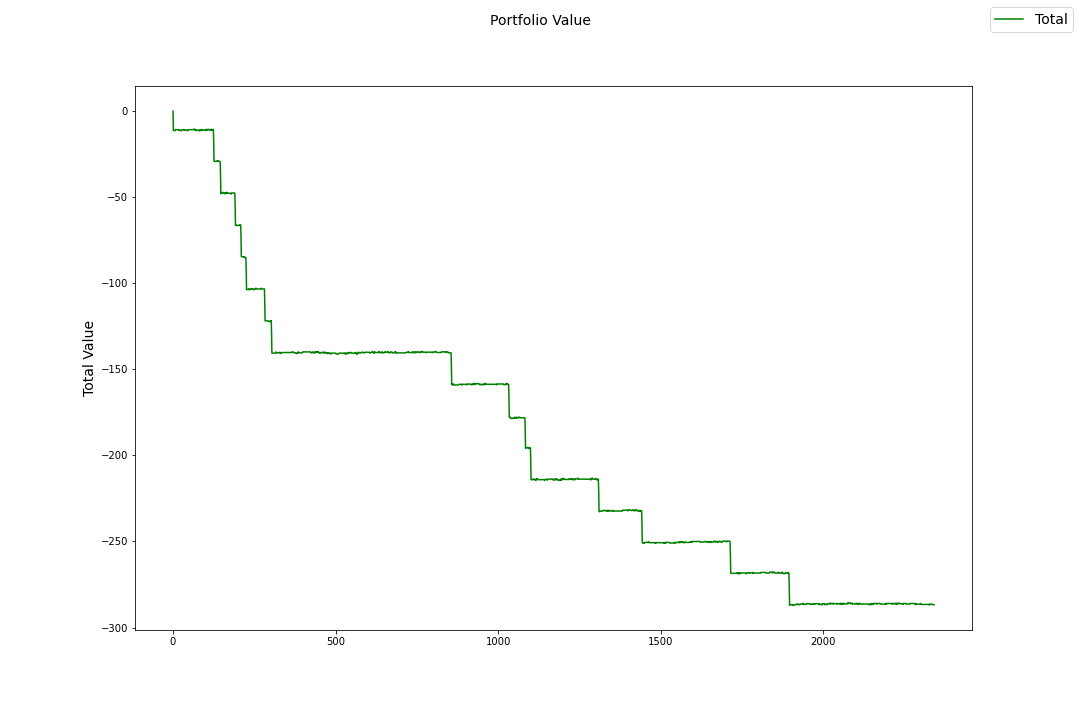
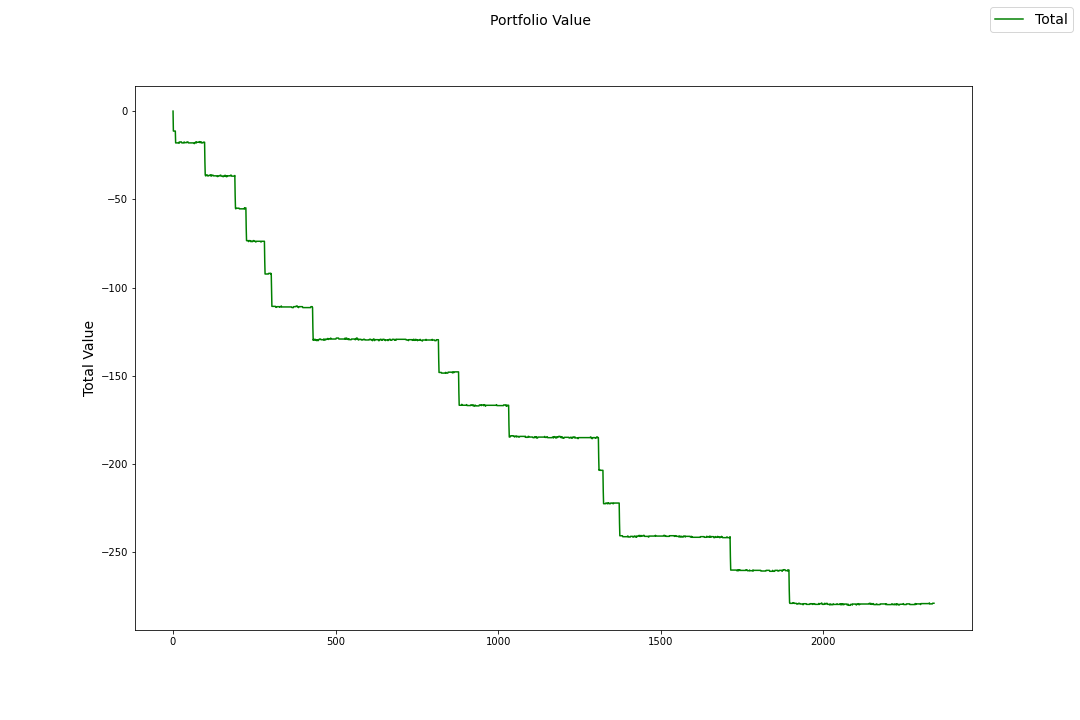
fixed some bugs in summarize_decisions. added flexibility in number_envs_to_analyze

diff --git a/environment.py b/environment.py
@@ -64,7 +64,7 @@ class Env(gym.Env):
         self.actions = list()
         self.actions_history = list()
 
-        # dict: keys are states, values are lists with actions take in that state
+        # dict: keys are states, values are lists of actions taken in that state
         self.num_trades = [dict()]
 
         # Need a history for plotting
@@ -75,17 +75,16 @@ class Env(gym.Env):
     def share_history(self):
         return self.last_share_history
 
-    @property
-    def collapse_num_trades_dict(self):
-        collapsed = self.num_trades[0]
-        for i in range(1,len(self.num_trades)):
+    def collapse_num_trades_dict(self, num_env_to_analyze = 1):
+        collapsed = self.num_trades[-num_env_to_analyze]
+        for i in range(len(self.num_trades) - num_env_to_analyze + 1, len(self.num_trades)):
             for k, v in self.num_trades[i].items():
                 current = collapsed.get(k, []) + v
                 collapsed[k] = current
         return collapsed
 
     def plot_state_frequency(self):
-        collapsed = self.collapse_num_trades_dict
+        collapsed = self.collapse_num_trades_dict(2)
         states = []
         freq = []
 
@@ -99,8 +98,8 @@ class Env(gym.Env):
         plt.setp(ax.get_xticklabels(), rotation=90, horizontalalignment='right', fontsize='x-small')
         plt.show()
 
-    def summarize_decisions(self):
-        collapsed = self.collapse_num_trades_dict
+    def summarize_decisions(self, num_env_to_analyze = 1):
+        collapsed = self.collapse_num_trades_dict(num_env_to_analyze)
         states = []
         freq = []
         d = {} ## keys are states, values are (unique, counts)
@@ -110,7 +109,6 @@ class Env(gym.Env):
             states.append(key)
             unique, counts = np.unique(collapsed[key], return_counts=True)
             d[key] = (unique, counts)
-
         freq_dict = {}
         for i in range(self.action_space.n+1):
 
@@ -128,8 +126,8 @@ class Env(gym.Env):
         plt.setp(ax.get_xticklabels(), rotation=90, horizontalalignment='right', fontsize='x-small')
         plt.show()
 
-    def summarize_state_decisions(self,state):
-        collapsed = self.collapse_num_trades_dict
+    def summarize_state_decisions(self,state,num_env_to_analyze = 1):
+        collapsed = self.collapse_num_trades_dict(num_env_to_analyze)
         unique, counts = np.unique(collapsed[state], return_counts=True)
         plt.bar(['Action ' + str(i) for i in unique],counts)
         plt.show()
@@ -199,8 +197,7 @@ class Env(gym.Env):
 
     def trade(self, action):
 
-        if action == 0:
-            if self.shares[0] < 0:
+        if action == 0 and self.shares[0] < 0:
                 cash = self.liquidate()
                 sh = abs(self.start_allocation[0])
                 sds = -abs(self.start_allocation[1])
@@ -209,8 +206,8 @@ class Env(gym.Env):
                 cash -= sh + sds + costs
                 self.portfolio = [cash, sh, sds]
                 self.shares = [sh / self.current_state[1], sds / self.current_state[2]]
-        elif action == 1:
-            if self.shares[0] > 0:
+                self.update_num_trades(action)
+        elif action == 1 and self.shares[0] > 0:
                 cash = self.liquidate()
                 sh = -abs(self.start_allocation[0])
                 sds = abs(self.start_allocation[1])
@@ -219,8 +216,10 @@ class Env(gym.Env):
                 cash -= sh + sds + costs
                 self.portfolio = [cash, sh, sds]
                 self.shares = [sh / self.current_state[1], sds / self.current_state[2]]
+                self.update_num_trades(action)
+        else:
+            self.update_num_trades(2)
 
-        self.update_num_trades(action)
         self.current_share_history.append(self.shares)
         self.current_portfolio_history.append(self.portfolio)
         return self.portfolio
